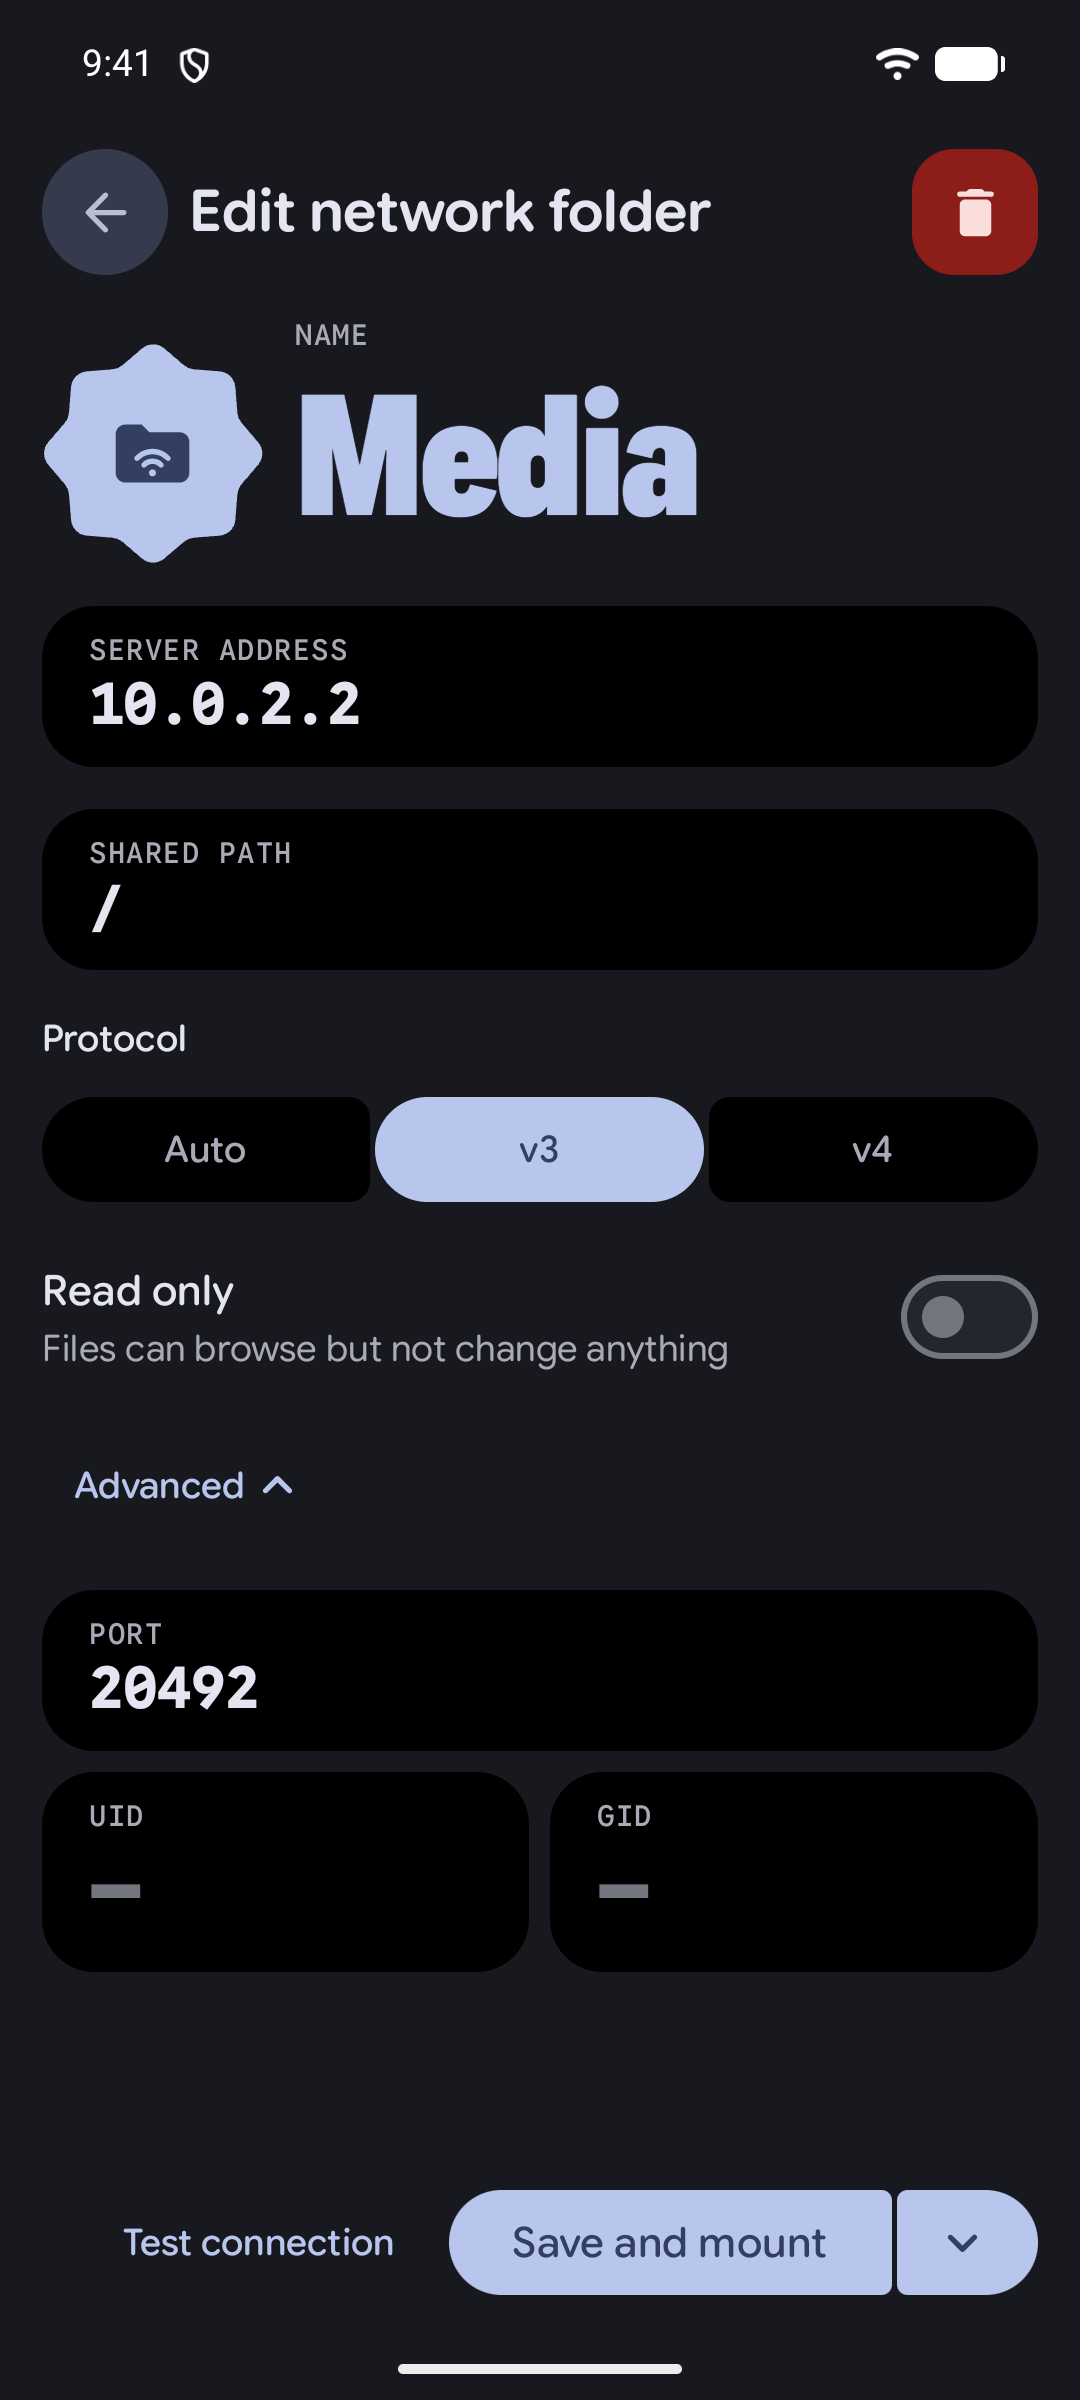
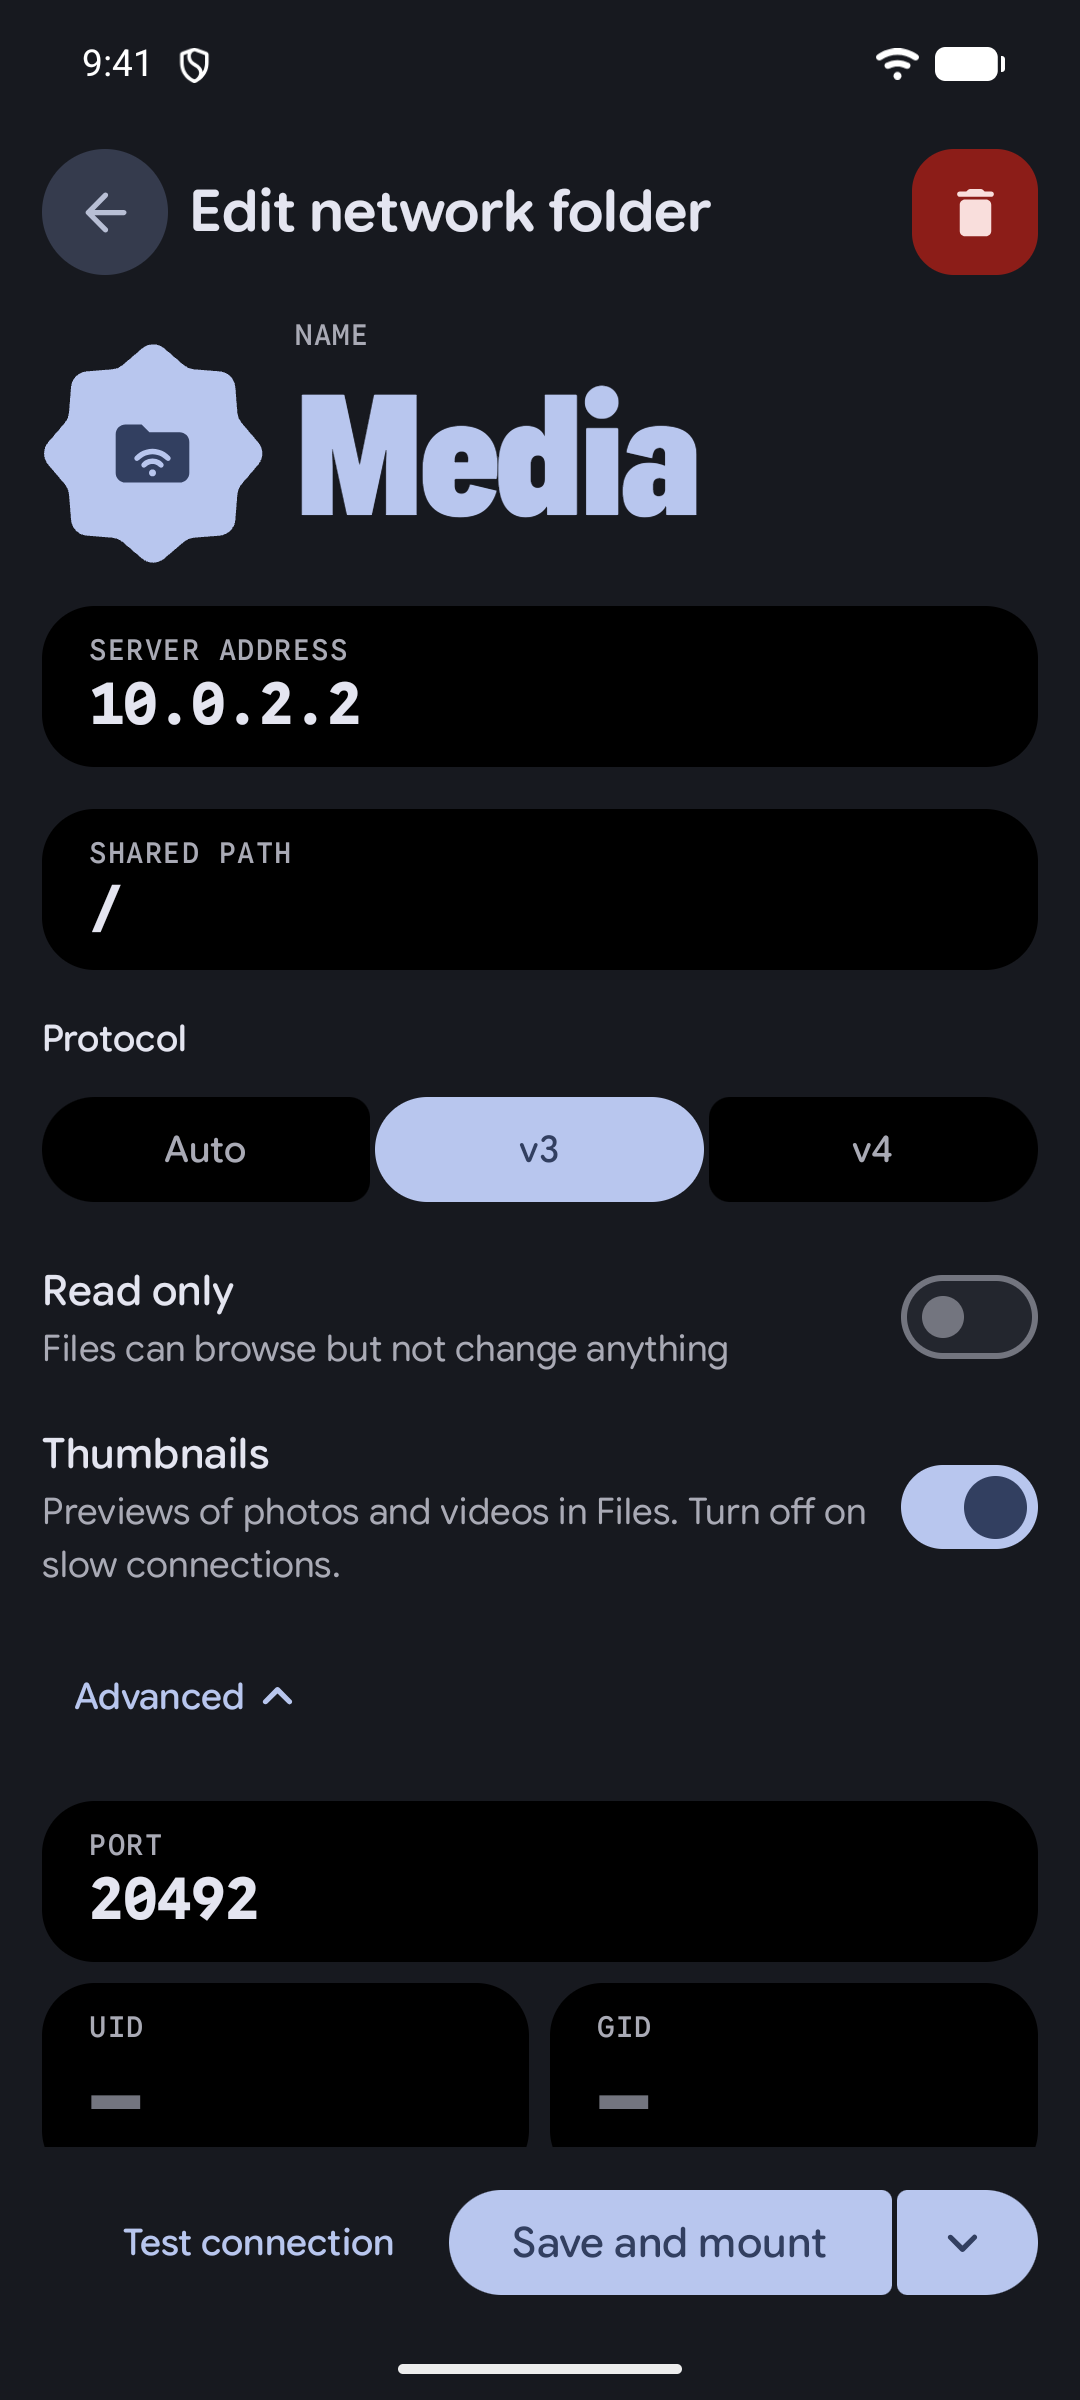
Per-folder thumbnails switch, adaptive read-ahead window
Reads now start from one 128 KiB block and the parallel window doubles
on each sequential step up to 2 MiB, like kernel readahead, so a
thumbnail fetches only the header it needs while streams still fill
the link. Thumbnails can be turned off per folder for slow links.

Changed region(s): [[0.0306, 0.5938, 0.9778, 0.9062], [0.9472, 0.75, 0.9778, 0.7812]]

diff --git a/app/src/main/java/dev/vibenfs/provider/NfsDocumentsProvider.kt b/app/src/main/java/dev/vibenfs/provider/NfsDocumentsProvider.kt
@@ -18,6 +18,7 @@ import android.system.ErrnoException
 import android.system.OsConstants
 import android.webkit.MimeTypeMap
 import dev.vibenfs.R
+import dev.vibenfs.data.Volume
 import dev.vibenfs.mount.MountManager
 import dev.vibenfs.mount.MountManager.Companion.AUTHORITY
 import dev.vibenfs.mount.MountState
@@ -54,15 +55,16 @@ class NfsDocumentsProvider : DocumentsProvider() {
 
     override fun queryDocument(documentId: String, projection: Array<String>?): Cursor = io {
         val doc = DocId.parse(documentId)
+        if (volume(doc)?.thumbnails == false) throw FileNotFoundException("Thumbnails are off for this folder")
         val entry = client(doc).stat(doc.path).copy(name = doc.name)
-        MatrixCursor(projection ?: DOC_COLUMNS).also { it.addEntry(doc, entry, writable(doc)) }
+        MatrixCursor(projection ?: DOC_COLUMNS).also { it.addEntry(doc, entry, volume(doc)) }
     }
 
     override fun queryChildDocuments(parentId: String, projection: Array<String>?, sortOrder: String?): Cursor = io {
         val parent = DocId.parse(parentId)
         MatrixCursor(projection ?: DOC_COLUMNS).apply {
-            val writable = writable(parent)
-            client(parent).list(parent.path).forEach { addEntry(parent.child(it.name), it, writable) }
+            val volume = volume(parent)
+            client(parent).list(parent.path).forEach { addEntry(parent.child(it.name), it, volume) }
             setNotificationUri(context!!.contentResolver, DocumentsContract.buildChildDocumentsUri(AUTHORITY, parentId))
         }
     }
@@ -153,6 +155,7 @@ class NfsDocumentsProvider : DocumentsProvider() {
 
     override fun openDocumentThumbnail(documentId: String, sizeHint: Point, signal: CancellationSignal?): AssetFileDescriptor = io {
         val doc = DocId.parse(documentId)
+        if (volume(doc)?.thumbnails == false) throw FileNotFoundException("Thumbnails are off for this folder")
         val entry = client(doc).stat(doc.path)
         // Keyed by content identity, so an edited file gets a fresh thumbnail.
         val key = "$documentId|${entry.size}|${entry.lastModified}|${sizeHint.x}"
@@ -175,7 +178,8 @@ class NfsDocumentsProvider : DocumentsProvider() {
     private fun notifyChildren(parent: DocId) =
         context!!.contentResolver.notifyChange(DocumentsContract.buildChildDocumentsUri(AUTHORITY, parent.toString()), null)
 
-    private fun writable(doc: DocId) = mounts.volumesNow().firstOrNull { it.id == doc.volume }?.readOnly == false
+    private fun volume(doc: DocId) = mounts.volumesNow().firstOrNull { it.id == doc.volume }
+    private fun writable(doc: DocId) = volume(doc)?.readOnly == false
 
     private fun requireWritable(doc: DocId) {
         if (!writable(doc)) throw FileNotFoundException("Volume is read only")
@@ -196,9 +200,10 @@ class NfsDocumentsProvider : DocumentsProvider() {
         if (exists) throw FileNotFoundException("${doc.name} already exists")
     }
 
-    private fun MatrixCursor.addEntry(doc: DocId, entry: NfsEntry, writable: Boolean) {
+    private fun MatrixCursor.addEntry(doc: DocId, entry: NfsEntry, volume: Volume?) {
+        val writable = volume?.readOnly == false
         val mime = if (entry.isDirectory) Document.MIME_TYPE_DIR else mimeOf(entry.name)
-        val thumb = if (Thumbnails.supports(mime)) Document.FLAG_SUPPORTS_THUMBNAIL else 0
+        val thumb = if (volume?.thumbnails != false && Thumbnails.supports(mime)) Document.FLAG_SUPPORTS_THUMBNAIL else 0
         val flags = thumb or if (!writable) 0 else
             Document.FLAG_SUPPORTS_DELETE or Document.FLAG_SUPPORTS_RENAME or Document.FLAG_SUPPORTS_MOVE or
                 if (entry.isDirectory) Document.FLAG_DIR_SUPPORTS_CREATE else Document.FLAG_SUPPORTS_WRITE

diff --git a/app/src/main/java/dev/vibenfs/ui/FolderEditScreen.kt b/app/src/main/java/dev/vibenfs/ui/FolderEditScreen.kt
@@ -108,6 +108,7 @@ fun FolderEditScreen(id: String?, onBack: () -> Unit) {
     var uid by rememberSaveable { mutableStateOf(existing?.uid?.takeIf { it >= 0 }?.toString().orEmpty()) }
     var gid by rememberSaveable { mutableStateOf(existing?.gid?.takeIf { it >= 0 }?.toString().orEmpty()) }
     var readOnly by rememberSaveable { mutableStateOf(existing?.readOnly ?: false) }
+    var thumbnails by rememberSaveable { mutableStateOf(existing?.thumbnails ?: true) }
     var advanced by rememberSaveable { mutableStateOf(port.isNotEmpty() || uid.isNotEmpty() || gid.isNotEmpty()) }
     var revealAdvanced by remember { mutableStateOf(false) }
     val advancedView = remember { BringIntoViewRequester() }
@@ -140,6 +141,7 @@ fun FolderEditScreen(id: String?, onBack: () -> Unit) {
             uid = uid.toIntOrNull() ?: -1,
             gid = gid.toIntOrNull() ?: -1,
             readOnly = readOnly,
+            thumbnails = thumbnails,
             mounted = mounted,
         )
     }
@@ -267,13 +269,8 @@ fun FolderEditScreen(id: String?, onBack: () -> Unit) {
             }
         }
 
-        Row(verticalAlignment = Alignment.CenterVertically) {
-            Column(Modifier.weight(1f)) {
-                Text(stringResource(R.string.field_read_only), style = MaterialTheme.typography.titleMedium)
-                Text(stringResource(R.string.read_only_body), style = MaterialTheme.typography.bodyMedium, color = colors.onSurfaceVariant)
-            }
-            Switch(checked = readOnly, onCheckedChange = { readOnly = it })
-        }
+        SwitchRow(stringResource(R.string.field_read_only), stringResource(R.string.read_only_body), readOnly) { readOnly = it }
+        SwitchRow(stringResource(R.string.field_thumbnails), stringResource(R.string.thumbnails_body), thumbnails) { thumbnails = it }
 
         TextButton(onClick = { advanced = !advanced; revealAdvanced = advanced }) {
             Text(stringResource(R.string.advanced))
@@ -374,6 +371,17 @@ private fun TestCard(result: TestResult) {
                 if (result is TestResult.Failed) ErrorText(result.message, content, size = 11)
             }
         }
+    }
+}
+
+@Composable
+private fun SwitchRow(title: String, body: String, checked: Boolean, onChange: (Boolean) -> Unit) {
+    Row(verticalAlignment = Alignment.CenterVertically) {
+        Column(Modifier.weight(1f)) {
+            Text(title, style = MaterialTheme.typography.titleMedium)
+            Text(body, style = MaterialTheme.typography.bodyMedium, color = MaterialTheme.colorScheme.onSurfaceVariant)
+        }
+        Switch(checked = checked, onCheckedChange = onChange)
     }
 }
 

diff --git a/app/src/main/java/dev/vibenfs/provider/BlockReader.kt b/app/src/main/java/dev/vibenfs/provider/BlockReader.kt
@@ -26,6 +26,7 @@ class BlockReader(private val nfs: NfsClient, private val fh: Long, var size: Lo
     }
     private val issued = ArrayList<Future<ByteArray>>()
     private var lastBlock = -2L
+    private var ahead = 0
 
     /** Reads up to [len] bytes at [pos] into [dst]; 0 at or past the end of the file. */
     fun read(pos: Long, dst: ByteArray, off: Int, len: Int): Int {
@@ -33,7 +34,12 @@ class BlockReader(private val nfs: NfsClient, private val fh: Long, var size: Lo
         while (done < len && pos + done < size) {
             val at = pos + done
             val index = at / BLOCK
-            if (index == lastBlock + 1) for (ahead in index + 1..index + AHEAD) fetch(index = ahead, prefetch = true)
+            // Adaptive window, like kernel readahead: start with nothing in flight (a thumbnail
+            // wants one header block), double on each sequential step, reset on a seek.
+            if (index != lastBlock) {
+                ahead = if (index == lastBlock + 1) (ahead * 2).coerceIn(1, MAX_AHEAD) else 0
+                for (next in index + 1..index + ahead) fetch(next, prefetch = true)
+            }
             lastBlock = index
             val block = try {
                 fetch(index, prefetch = false)!!.get()
@@ -105,10 +111,10 @@ class BlockReader(private val nfs: NfsClient, private val fh: Long, var size: Lo
     private fun settle() = issued.forEach { runCatching { it.get() } }
 
     companion object {
-        const val BLOCK = 512 * 1024
-        private const val AHEAD = 3 // blocks in flight ahead of a sequential reader
-        private const val BLOCKS = 6 // cache per open file: 3 MiB at most
+        const val BLOCK = 128 * 1024
+        private const val MAX_AHEAD = 16 // 2 MiB in flight for a streaming reader
+        private const val BLOCKS = MAX_AHEAD + 4 // cache per open file: 2.5 MiB at most
         // Shared by all open files; idle threads exit, so a quiet provider holds none.
-        private val POOL = ThreadPoolExecutor(0, 8, 30, TimeUnit.SECONDS, SynchronousQueue()) { Thread(it, "nfs-read").apply { isDaemon = true } }
+        private val POOL = ThreadPoolExecutor(0, MAX_AHEAD, 30, TimeUnit.SECONDS, SynchronousQueue()) { Thread(it, "nfs-read").apply { isDaemon = true } }
     }
 }

diff --git a/app/src/androidTest/java/dev/vibenfs/provider/NfsDocumentsProviderTest.kt b/app/src/androidTest/java/dev/vibenfs/provider/NfsDocumentsProviderTest.kt
@@ -69,8 +69,9 @@ class NfsDocumentsProviderTest {
         val doc = DocumentsContract.createDocument(
             resolver, DocumentsContract.buildDocumentUri(AUTHORITY, rootDoc), "application/octet-stream", "blocks-${System.nanoTime()}.bin",
         )!!
-        // Several 512 KiB blocks plus a ragged tail, so block edges and the end of file are both crossed.
-        val bytes = Random(7).nextBytes(5 * 512 * 1024 + 12_345)
+        // Enough blocks for the read-ahead window to grow, plus a ragged tail, so block edges and
+        // the end of file are both crossed.
+        val bytes = Random(7).nextBytes(24 * BlockReader.BLOCK + 12_345)
         resolver.openOutputStream(doc, "wt")!!.use { it.write(bytes) }
         try {
             assertArrayEquals(bytes, resolver.openInputStream(doc)!!.use { it.readBytes() })

diff --git a/app/src/main/java/dev/vibenfs/data/Volumes.kt b/app/src/main/java/dev/vibenfs/data/Volumes.kt
@@ -26,6 +26,8 @@ data class Volume(
     val uid: Int = -1,
     val gid: Int = -1,
     val readOnly: Boolean = false,
+    /** Off for slow links or shares without media: Files then shows plain icons and reads nothing extra. */
+    val thumbnails: Boolean = true,
     val mounted: Boolean = false,
 )
 

diff --git a/README.md b/README.md
@@ -32,8 +32,8 @@ Your media server, home lab or Linux box already shares folders over NFS. Your A
 - **Shows up in the Files app.** Each mounted share appears as its own location in the system file manager, using Android's Storage Access Framework (`DocumentsProvider`). There's no extra file browser to learn.
 - **No root, no kernel module.** A native NFS client ([libnfs](https://github.com/sahlberg/libnfs)) runs inside the app.
 - **NFSv3 and NFSv4.** *Auto* tries v4 first, since it needs only port 2049 and gets through firewalls more easily, and falls back to v3. NFSv4 speaks 4.2 and drops to 4.0 for servers that don't have it, so it also works with servers that turned 4.0 off.
-- **Fast, seekable streaming.** Files open as seekable file descriptors served from the network, so you can skip through a 4K movie without downloading it first. Apps read a few KiB at a time and each network round trip costs the full latency, so VibeNFS reads 512 KiB blocks, and once you read sequentially it fetches the next blocks in parallel, like the kernel's readahead. A photo over a VPN takes a handful of round trips instead of hundreds.
-- **Thumbnails in Files.** Photos, videos and album art get previews. VibeNFS uses the preview cameras embed in the photo header when there is one, so most phone photos never cross the network in full just to draw a tile. Otherwise it decodes straight at the requested size. Thumbnails are cached until the file changes.
+- **Fast, seekable streaming.** Files open as seekable file descriptors served from the network, so you can skip through a 4K movie without downloading it first. Apps read a few KiB at a time and each network round trip costs the full latency, so VibeNFS reads 128 KiB blocks and, like the kernel's readahead, doubles a window of parallel fetches while you read sequentially, up to 2 MiB in flight. A thumbnail costs one block; a photo over a VPN takes a handful of round trips instead of hundreds.
+- **Thumbnails in Files.** Photos, videos and album art get previews, and you can turn them off per folder for slow links. VibeNFS uses the preview cameras embed in the photo header when there is one, so most phone photos never cross the network in full just to draw a tile. Otherwise it decodes straight at the requested size. Thumbnails are cached until the file changes.
 - **Survives network changes.** Switch from Wi-Fi to mobile data and back: mounted folders reconnect on the new network in the background, with no stuck connection and no reboot.
 - **Read and write.** Create, rename, move and delete files and folders from any app. The *Read only* switch protects shares you only want to browse.
 - **Quick Settings tile.** Tap to mount or unmount everything. Long-press for a per-folder panel, like the Wi-Fi and Bluetooth tiles.
